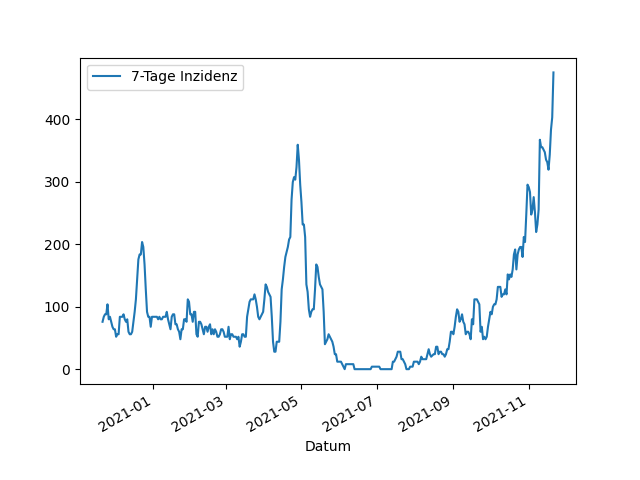
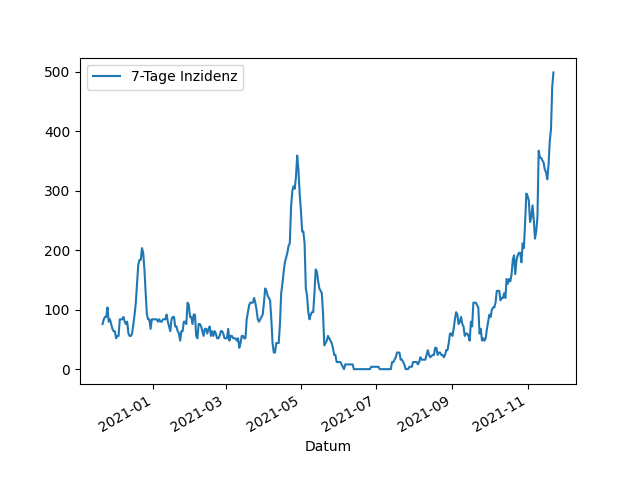
Update images

diff --git a/_includes/aktuelle_inzidenz.md b/_includes/aktuelle_inzidenz.md
@@ -1,1 +1,1 @@
-475,0
+499,0
